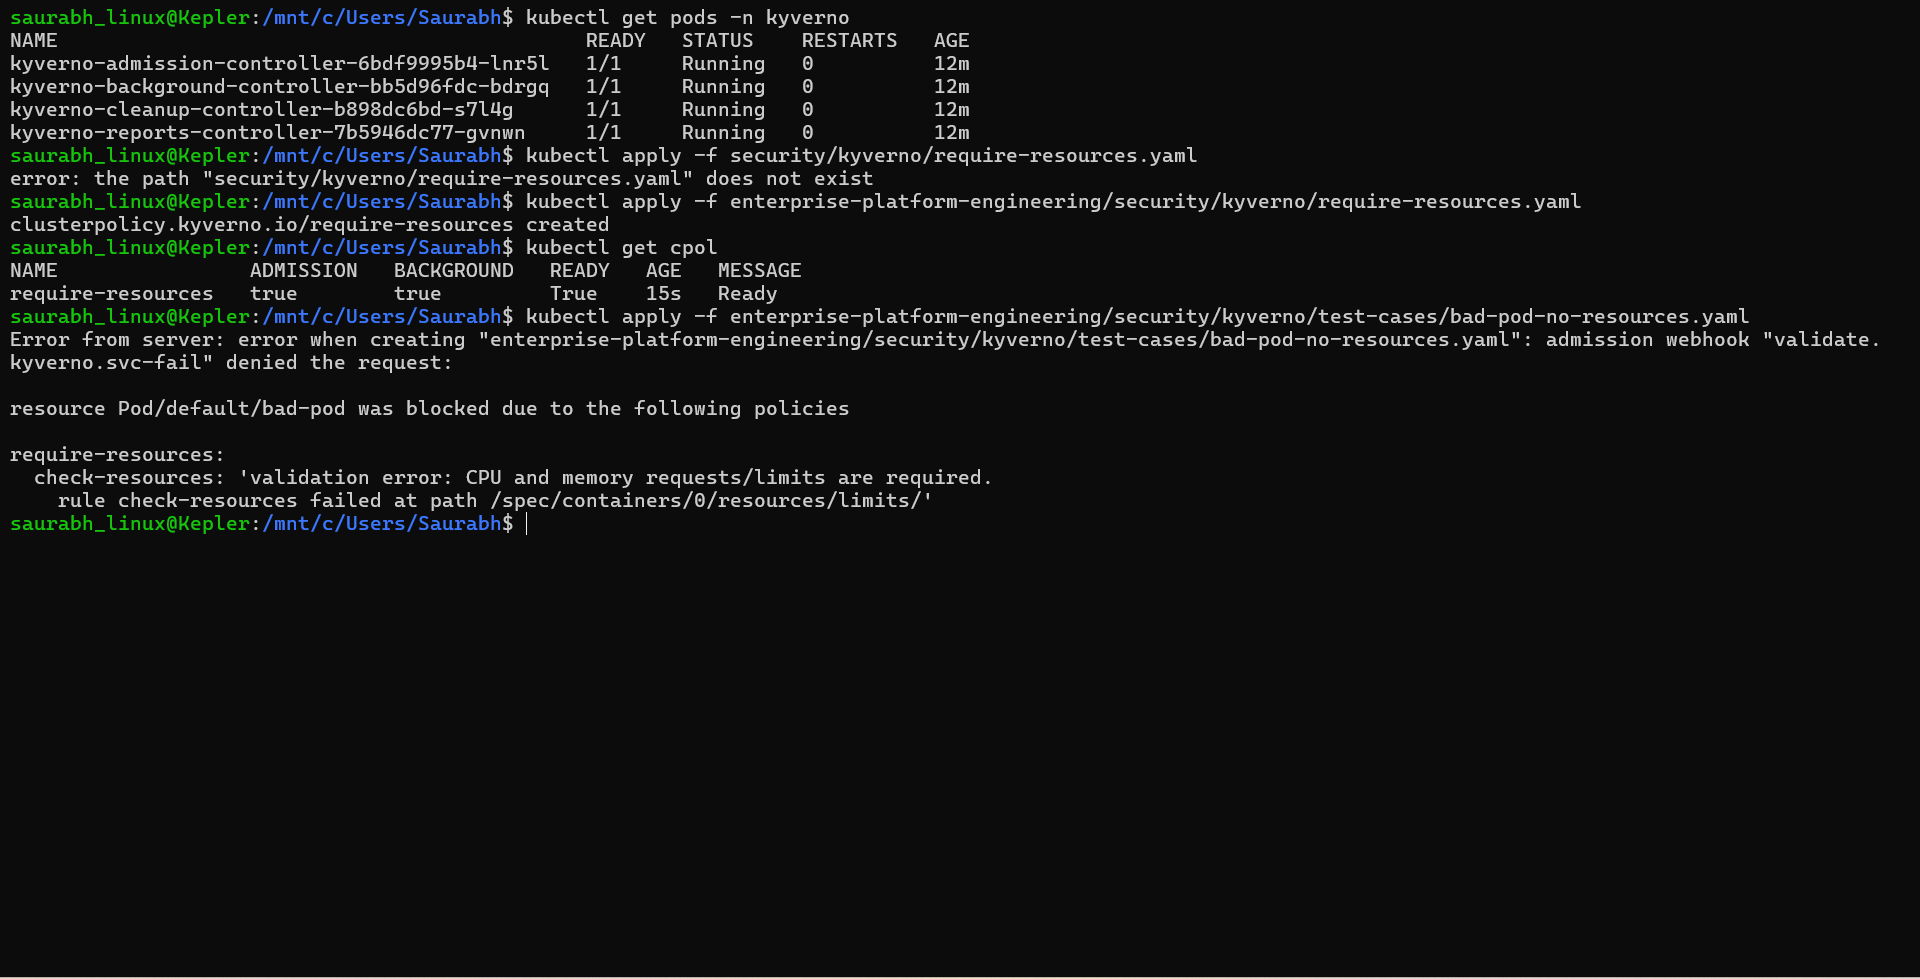
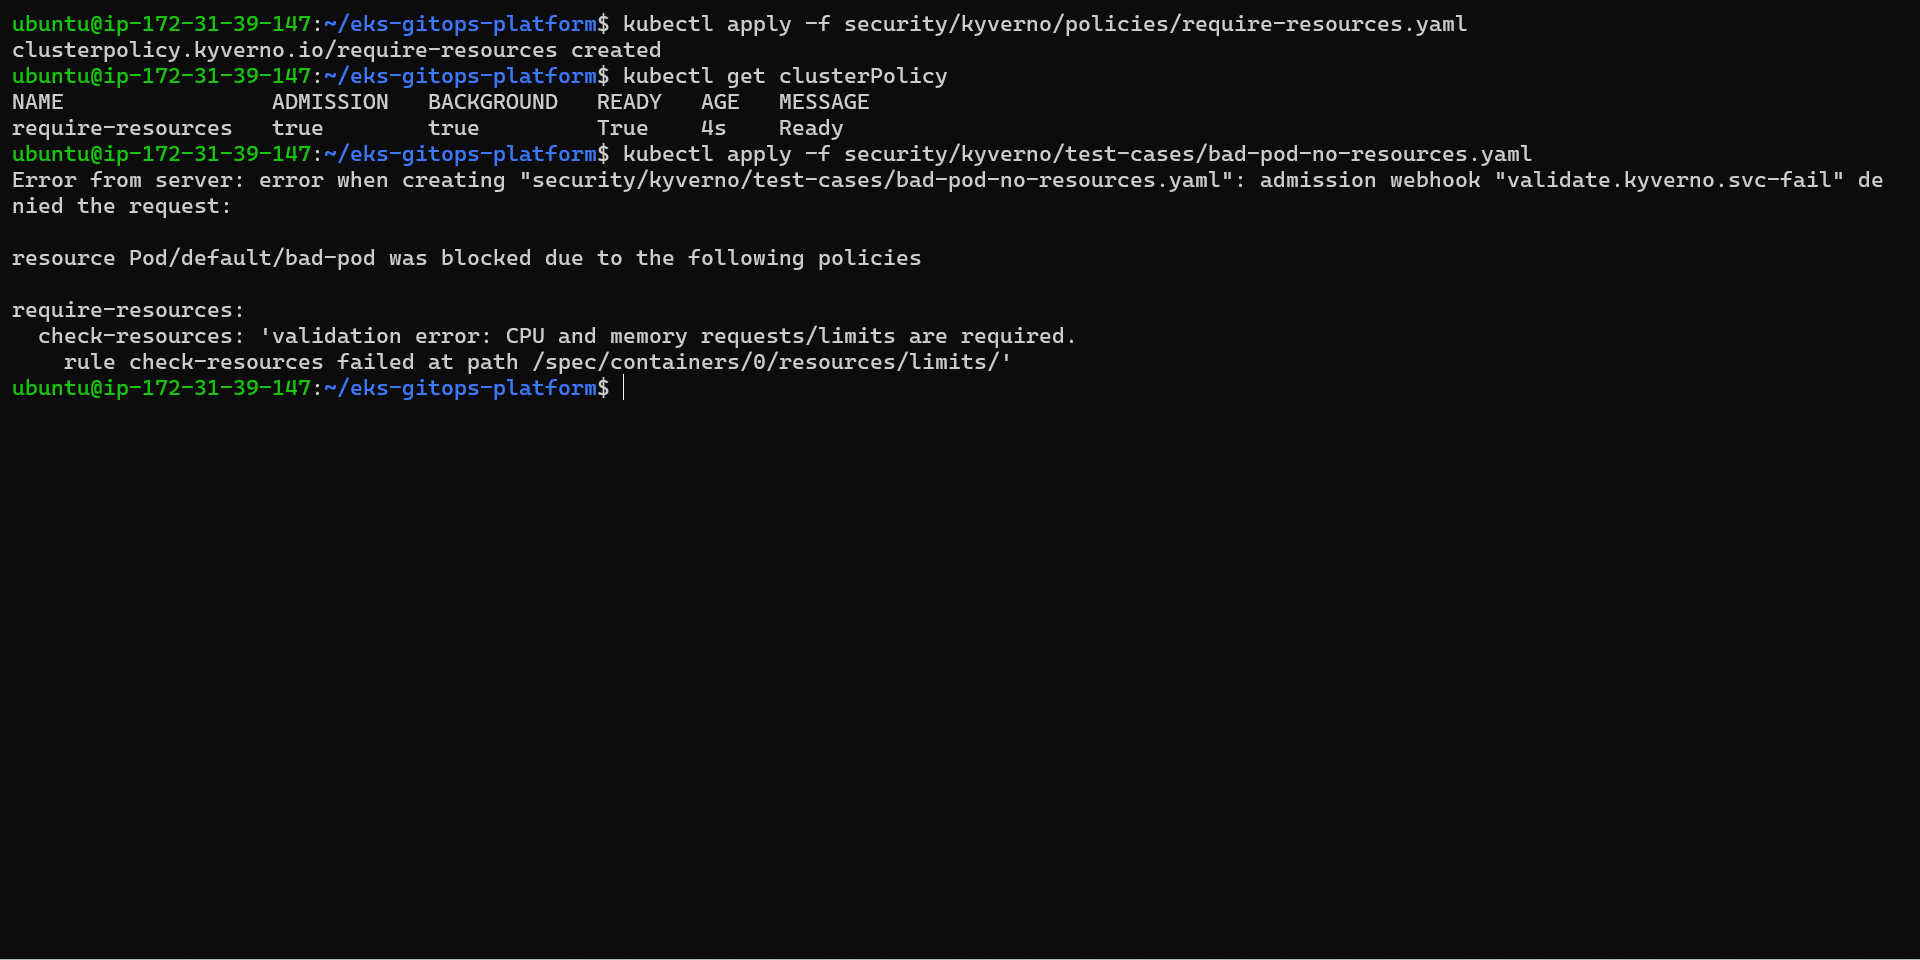
resouce policy

Changed region(s): [[0.0, 0.0, 0.9688, 0.5625]]

diff --git a/README.md b/README.md
@@ -193,7 +193,7 @@ Cluster Resources
 
 ### Policy Enforcement: Resource Governance
 
-![Resource Policy Violation](docs/screenshots/09-kyverno/resource-policy-violation.png)
+![Resource Policy Violation](docs/screenshots/08-kyverno/resource-policy-violation.png)
 
 *Kyverno enforced platform governance by blocking deployment of a non-compliant workload that did not define CPU and memory requests/limits. This prevents uncontrolled resource consumption and ensures workloads adhere to operational standards before reaching the cluster.*
 